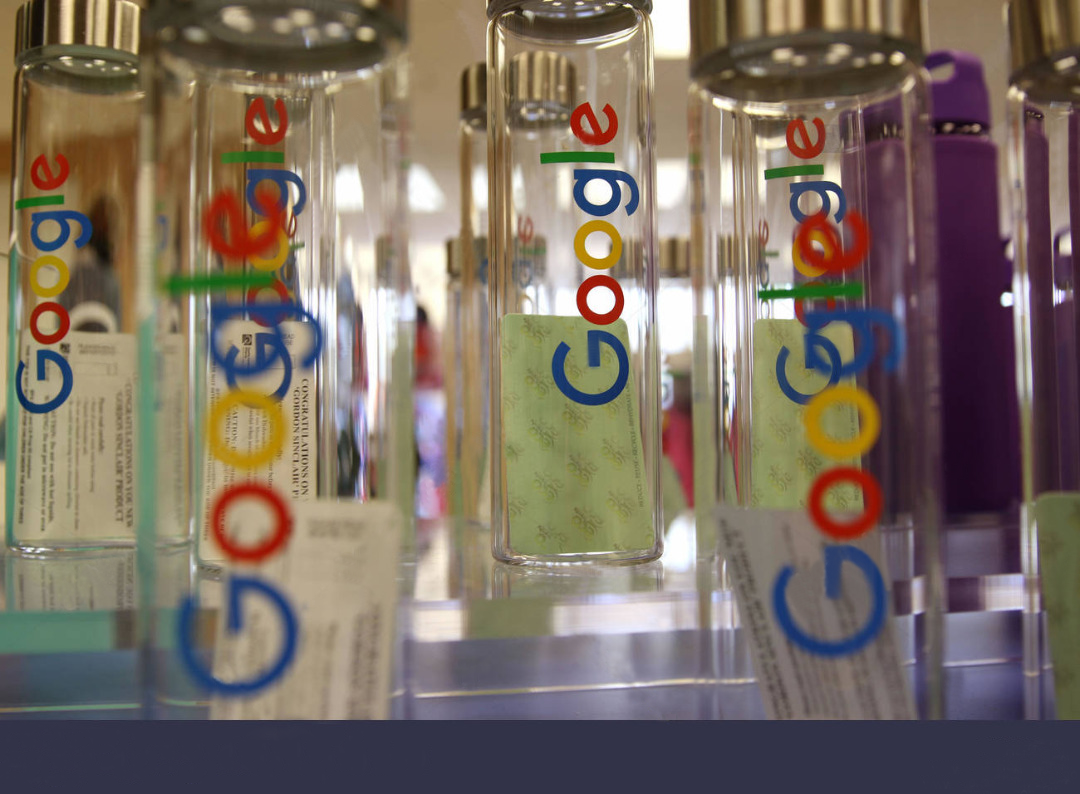
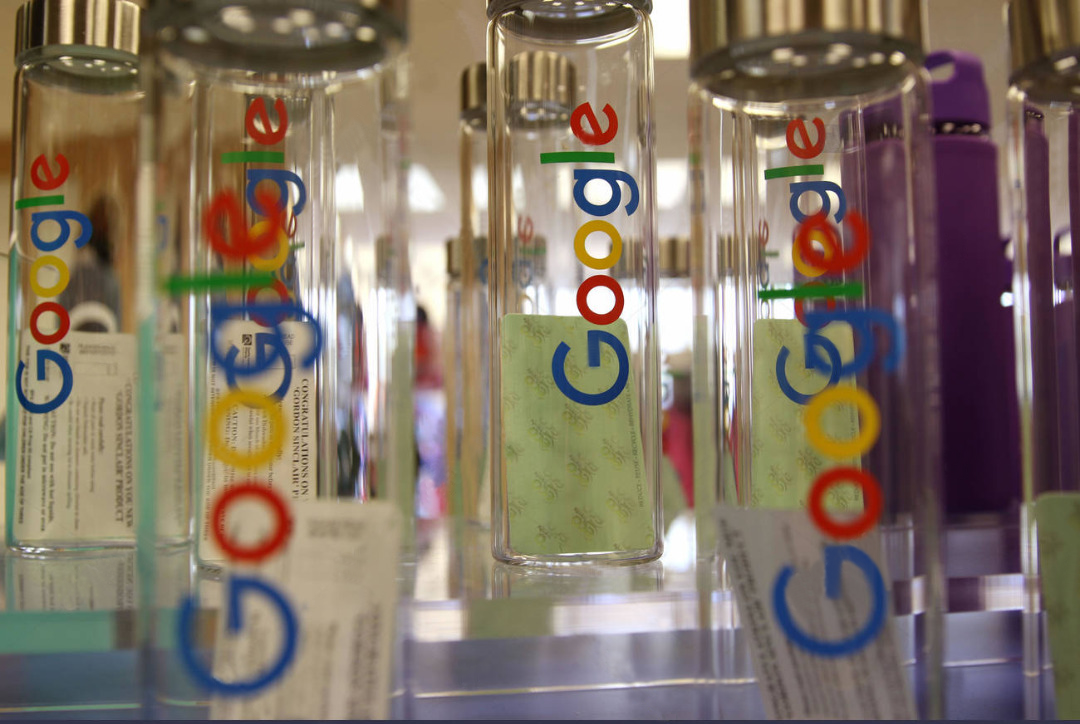
final version of sublimation page

diff --git a/httpdocs/CSS/sublimation.css b/httpdocs/CSS/sublimation.css
@@ -1,77 +1,77 @@
 * {
-  padding: 0;
-  margin: 0;
+    padding: 0;
+    margin: 0;
 }
 .iranSans {
-  font-family: "iranSans";
+    font-family: "iranSans";
 }
 main > section.image-header > img {
-  width: 100%;
-  height: auto;
+    width: 100%;
+    height: auto;
 }
 main > section.description {
-  border-radius: 10px;
+    border-radius: 10px;
 }
 main > section.description > article {
-  direction: rtl;
+    direction: rtl;
+}
+main > section > article > ul {
+    list-style-type: none;
 }
 main > section.description > article > ul > li > h4 {
-  clear: both;
+    clear: both;
 }
 main > section.description > article > ul > li > h4::before {
-  content: "\f00c";
-  font-family: "Font Awesome 5 Free";
-  font-weight: 900;
-  padding: 1rem;
+    content: "\f00c";
+    font-family: "Font Awesome 5 Free";
+    font-weight: 900;
+    padding: 1rem;
 }
 main > section > article > ul > li > p {
-  line-height: 2.5rem;
-  text-align: justify !important;
-  padding: 1rem 2rem;
+    line-height: 2.5rem;
+    text-align: justify !important;
+    padding: 1rem 2rem;
 }
 main > section > article > ul > li > img {
-  width: 15%;
-  height: auto;
-  border-radius: 5px;
-  margin: 1rem;
+    width: 15%;
+    height: auto;
+    border-radius: 5px;
+    margin: 1rem;
 }
 main > section.videos {
-  background-image: -webkit-gradient(linear, left top, right top, from(rgba(0, 255, 255, 0.1)), to(rgba(255, 0, 255, 0.1)));
-  background-image: linear-gradient(to right, rgba(0, 255, 255, 0.1), rgba(255, 0, 255, 0.1));
+    background-image: -webkit-gradient(linear, left top, right top, from(rgba(0, 255, 255, 0.1)), to(rgba(255, 0, 255, 0.1)));
+    background-image: linear-gradient(to right, rgba(0, 255, 255, 0.1), rgba(255, 0, 255, 0.1));
 }
 main > section.videos > div.video-wrapper {
-  margin-bottom: 7rem;
+    margin-bottom: 7rem;
 }
 main > section.videos > h4,
 main > section.videos > p {
-  color: yellow;
+    color: yellow;
 }
 .right {
-  float: right;
+    float: right;
 }
 .left {
-  float: left;
+    float: left;
 }
 img.inline {
-  margin-top: 2rem;
+    margin-top: 2rem;
 }
 @media screen and (max-width: 576px) {
-  main > section > article > ul {
-    list-style-type: none;
-  }
-  main > section > article > ul > li > h4,
-  main > section.videos > h4 {
-    font-size: 1rem;
-  }
-  main > section > article > ul > li > p,
-  main > section.videos > div.video-wrapper > div > p {
-    font-size: 0.75rem;
-  }
-  main > section > article > ul > li > img {
-    width: 100%;
-    margin: 0;
-  }
-  main > section > article > ul > li > p {
-    text-align: justify;
-  }
+    main > section > article > ul > li > h4,
+    main > section.videos > h4 {
+        font-size: 1rem;
+    }
+    main > section > article > ul > li > p,
+    main > section.videos > div.video-wrapper > div > p {
+        font-size: 0.75rem;
+    }
+    main > section > article > ul > li > img {
+        width: 100%;
+        margin: 0;
+    }
+    main > section > article > ul > li > p {
+        text-align: justify;
+    }
 }

diff --git a/httpdocs/sublimation.php b/httpdocs/sublimation.php
@@ -60,7 +60,7 @@
                 <ul>
                     <li class="p-2 text-right iranSans">
                         <h4>سابلیمیشن به چه معناست؟</h4>
-                        <img class="right inline" src="images/sublimation/google_on_glass.png" alt="google logo on the glasses">
+                        <img class="right inline" src="images/sublimation/google_on_glass.jpg" alt="google logo on the glasses">
                         <p class="">سابلیمیشن از واژه لاتین <span>sublimation</span> مشتق شده که در لغت به معنی تبدیل مستقیم مواد از حالت جامد به گاز است. سابلیمیشن در اصطلاح به چاپ حرارتی در اشکال گوناگون و بر روی مواد مختلف دلالت دارد به گونه ای که طرح  بر روی کاغذ مخصوص سابلیمیشن پرینت گرفته شده و بر اثر حرارت بالا، بر روی جسم مورد نظر جوهر می ریزد و چاپ انجام می شود. در این روش برای چاپ باید ابتدا طرح خود را روی کاغذ مخصوص سابلیمیشن به صورت وارونه چاپ کنیم و سپس آن را برای چاپ سابلیمیشن روی سطح مورد نظر قرار دهیم. چاپ سابلیمیشن یکی از انواع چاپ های یک رو محسوب می شود. از بهترین نمونه های چاپ سابلیمیشن می توان به چاپ روی کاسه، بشقاب، لیوان، سرامیک، شيشه و انواع پارچه اشاره کرد. امروزه به دلیل تنوع کاربردهای سابليميشن، این نوع چاپ به یکی از بهترين راه های تبليغات محصولات گوناگون تبدیل شده است. کادر تخصصی پیشگامان پودینه آتا مفتخر است که چاپ سابلیمیشن بر روی انواع پارچه را در تمامی ابعاد، طبق سفارش مشتریان گرامی انجام و با توجه به تیراژ کار حداکثر تا 2 هفته پس از پذیرش سفارش، تحویل می دهد.</p>
                     </li>
                     <li class="p-2 text-right iranSans">
